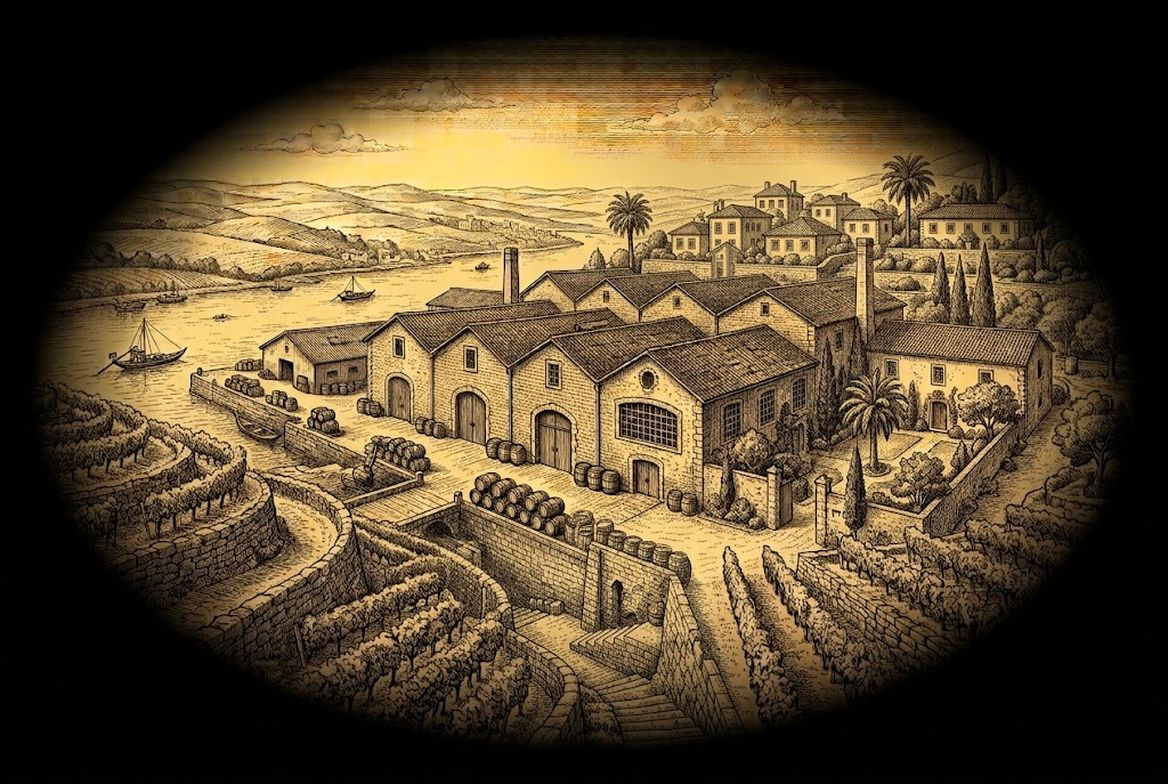
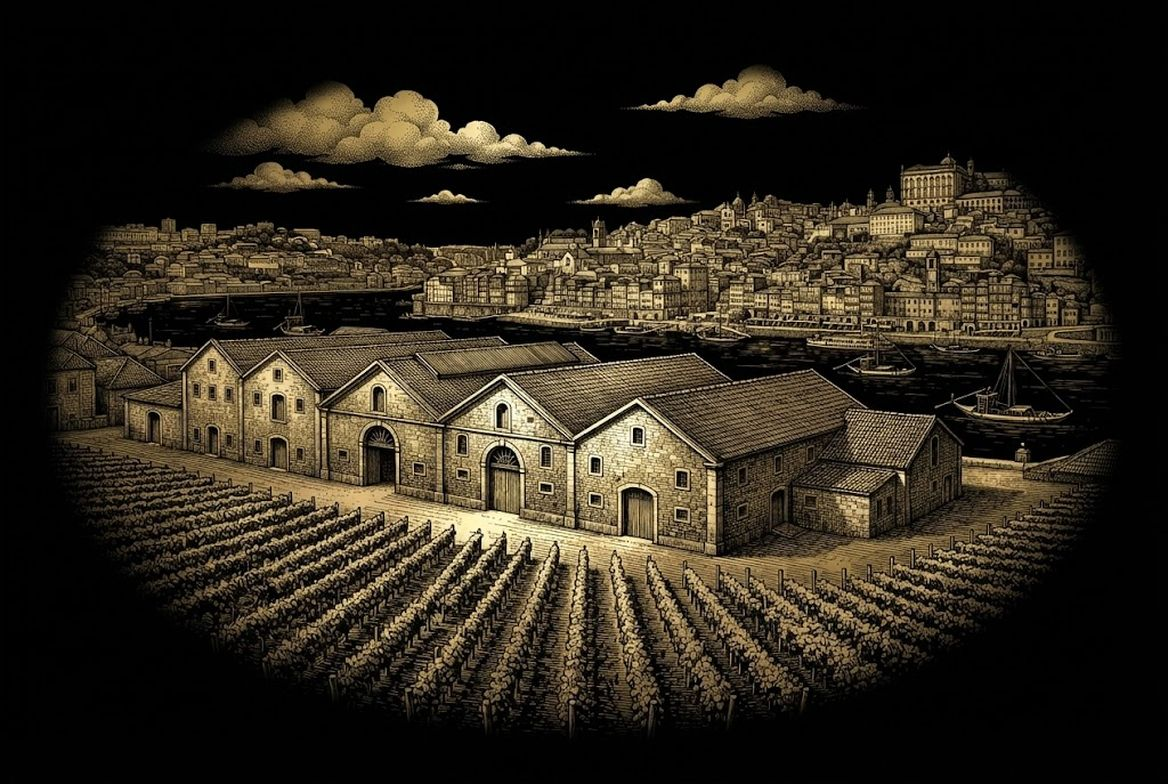
Churchill's, Fitapreta y Perelada tienen grabado propio (v96) (#43)
* Sustituye los grabados de Churchill's y Fitapreta (v96).

* Sustituye el grabado de Perelada por el del castillo (v96).

---------

diff --git a/index.html b/index.html
@@ -9,14 +9,14 @@
   <meta name="apple-mobile-web-app-title" content="Casa Llavaneras" />
   <meta name="application-name" content="Casa Llavaneras" />
   <meta name="theme-color" content="#000000" />
-  <meta name="app-version" content="v95" />
+  <meta name="app-version" content="v96" />
   <title>Casa Llavaneras</title>
   <link rel="manifest" href="manifest.json" />
   <link rel="apple-touch-icon" href="apple-touch-icon.png" />
   <link rel="apple-touch-icon" sizes="180x180" href="apple-touch-icon.png" />
   <link rel="icon" type="image/png" sizes="192x192" href="icon-192.png" />
   <link rel="icon" type="image/png" sizes="512x512" href="icon-512.png" />
-  <link rel="stylesheet" href="styles.css?v=95" />
+  <link rel="stylesheet" href="styles.css?v=96" />
 </head>
 <body>
   <div class="device">
@@ -526,32 +526,32 @@
       if (!window.__casaReady) casaShowBootError();
     }, 8000);
   </script>
-  <script src="wines.js?v=95"></script>
-  <script src="bodegas.js?v=95"></script>
-  <script src="dossiers.js?v=95"></script>
-  <script src="providers/wineProvider.js?v=95"></script>
-  <script src="pairings.js?v=95"></script>
-  <script src="catalog-i18n.js?v=95"></script>
-  <script src="i18n.js?v=95"></script>
-  <script src="casa-util.js?v=95"></script>
-  <script src="casa-vino.js?v=95"></script>
-  <script src="casa-estado.js?v=95"></script>
-  <script src="casa-inicio.js?v=95"></script>
-  <script src="casa-vinoteca.js?v=95"></script>
-  <script src="casa-bodega.js?v=95"></script>
-  <script src="casa-ficha.js?v=95"></script>
-  <script src="casa-mesa.js?v=95"></script>
-  <script src="casa-bebidas.js?v=95"></script>
-  <script src="casa-gemini.js?v=95"></script>
-  <script src="casa-ajustes.js?v=95"></script>
-  <script src="casa-v86.js?v=95"></script>
-  <script src="casa-v88.js?v=95"></script>
-  <script src="casa-v89.js?v=95"></script>
-  <script src="casa-v90.js?v=95"></script>
-  <script src="casa-v91.js?v=95"></script>
-  <script src="casa-v92.js?v=95"></script>
-  <script src="casa-alta.js?v=95"></script>
-  <script src="app.js?v=95"></script>
+  <script src="wines.js?v=96"></script>
+  <script src="bodegas.js?v=96"></script>
+  <script src="dossiers.js?v=96"></script>
+  <script src="providers/wineProvider.js?v=96"></script>
+  <script src="pairings.js?v=96"></script>
+  <script src="catalog-i18n.js?v=96"></script>
+  <script src="i18n.js?v=96"></script>
+  <script src="casa-util.js?v=96"></script>
+  <script src="casa-vino.js?v=96"></script>
+  <script src="casa-estado.js?v=96"></script>
+  <script src="casa-inicio.js?v=96"></script>
+  <script src="casa-vinoteca.js?v=96"></script>
+  <script src="casa-bodega.js?v=96"></script>
+  <script src="casa-ficha.js?v=96"></script>
+  <script src="casa-mesa.js?v=96"></script>
+  <script src="casa-bebidas.js?v=96"></script>
+  <script src="casa-gemini.js?v=96"></script>
+  <script src="casa-ajustes.js?v=96"></script>
+  <script src="casa-v86.js?v=96"></script>
+  <script src="casa-v88.js?v=96"></script>
+  <script src="casa-v89.js?v=96"></script>
+  <script src="casa-v90.js?v=96"></script>
+  <script src="casa-v91.js?v=96"></script>
+  <script src="casa-v92.js?v=96"></script>
+  <script src="casa-alta.js?v=96"></script>
+  <script src="app.js?v=96"></script>
   <script>
     document.querySelectorAll(".tab").forEach((t, i) => {
       const icons = [
@@ -592,7 +592,7 @@
         const current = (document.querySelector('meta[name="app-version"]') || {}).content || "";
         if (data.version && current && data.version !== current) reloadForSw();
       });
-      navigator.serviceWorker.register("sw.js?v=95").catch(() => {});
+      navigator.serviceWorker.register("sw.js?v=96").catch(() => {});
     }
   </script>
 </body>

diff --git a/sw.js b/sw.js
@@ -1,7 +1,7 @@
-const CACHE = "casa-llavaneras-ios-v95";
-const VERSION = "v95";
+const CACHE = "casa-llavaneras-ios-v96";
+const VERSION = "v96";
 const NEXT = CACHE + "-next";
-const ASSETS = ["./", "./index.html", "./styles.css", "./i18n.js", "./casa-util.js", "./casa-vino.js", "./casa-estado.js", "./casa-inicio.js", "./casa-vinoteca.js", "./casa-bodega.js", "./casa-ficha.js", "./casa-mesa.js", "./casa-bebidas.js", "./casa-gemini.js", "./casa-ajustes.js", "./casa-v86.js", "./casa-v88.js", "./casa-v89.js", "./casa-v90.js", "./casa-v91.js", "./casa-v92.js", "./casa-alta.js", "./app.js", "./wines.js", "./bodegas.js", "./dossiers.js", "./providers/wineProvider.js", "./pairings.js", "./catalog-i18n.js", "./manifest.json", "./icon.svg", "./apple-touch-icon.png", "./icon-192.png", "./icon-512.png", "./cave-principal.jpg", "./capsula.jpg", "./botella-tinto.jpg", "./botella-blanco.jpg", "./botella-espumoso.jpg", "./vinedo-chateau-margaux.jpg", "./bodega-domaine-georges-roumier.jpg", "./bodega-domaine-cecile-tremblay.jpg", "./bodega-schloss-johannisberg.jpg", "./bodega-kuhling-gillot.jpg", "./bodega-cartuxa.jpg", "./bodega-fitapreta.jpg", "./bodega-vila-gale.jpg", "./bodega-casa-ferreirinha.jpg", "./bodega-churchills.jpg", "./bodega-niepoort.jpg", "./bodega-pocas.jpg", "./bodega-quinta-do-bomfim.jpg", "./bodega-quinta-do-crasto.jpg", "./bodega-quinta-do-pessegueiro.jpg", "./bodega-quinta-vale-d-maria.jpg", "./bodega-taylors.jpg", "./bodega-wine-and-soul.jpg", "./bodega-casa-santos-lima.jpg", "./bodega-madeira-wine-company.jpg", "./bodega-ermelinda-freitas.jpg", "./bodega-aveleda.jpg"];
+const ASSETS = ["./", "./index.html", "./styles.css", "./i18n.js", "./casa-util.js", "./casa-vino.js", "./casa-estado.js", "./casa-inicio.js", "./casa-vinoteca.js", "./casa-bodega.js", "./casa-ficha.js", "./casa-mesa.js", "./casa-bebidas.js", "./casa-gemini.js", "./casa-ajustes.js", "./casa-v86.js", "./casa-v88.js", "./casa-v89.js", "./casa-v90.js", "./casa-v91.js", "./casa-v92.js", "./casa-alta.js", "./app.js", "./wines.js", "./bodegas.js", "./dossiers.js", "./providers/wineProvider.js", "./pairings.js", "./catalog-i18n.js", "./manifest.json", "./icon.svg", "./apple-touch-icon.png", "./icon-192.png", "./icon-512.png", "./cave-principal.jpg", "./capsula.jpg", "./botella-tinto.jpg", "./botella-blanco.jpg", "./botella-espumoso.jpg", "./vinedo-chateau-margaux.jpg", "./bodega-domaine-georges-roumier.jpg", "./bodega-domaine-cecile-tremblay.jpg", "./bodega-perelada.jpg", "./bodega-schloss-johannisberg.jpg", "./bodega-kuhling-gillot.jpg", "./bodega-cartuxa.jpg", "./bodega-fitapreta.jpg", "./bodega-vila-gale.jpg", "./bodega-casa-ferreirinha.jpg", "./bodega-churchills.jpg", "./bodega-niepoort.jpg", "./bodega-pocas.jpg", "./bodega-quinta-do-bomfim.jpg", "./bodega-quinta-do-crasto.jpg", "./bodega-quinta-do-pessegueiro.jpg", "./bodega-quinta-vale-d-maria.jpg", "./bodega-taylors.jpg", "./bodega-wine-and-soul.jpg", "./bodega-casa-santos-lima.jpg", "./bodega-madeira-wine-company.jpg", "./bodega-ermelinda-freitas.jpg", "./bodega-aveleda.jpg"];
 const OCR = ["./vendor/tesseract/tesseract.min.js", "./vendor/tesseract/worker.min.js", "./vendor/tesseract/tesseract-core-lstm.wasm.js", "./vendor/tesseract/tesseract-core-simd-lstm.wasm.js", "./vendor/tesseract/spa.traineddata.gz", "./vendor/tesseract/eng.traineddata.gz", "./vendor/tesseract/por.traineddata.gz", "./vendor/tesseract/fra.traineddata.gz", "./vendor/tesseract/cat.traineddata.gz"];
 
 function fetchWithTimeout(request, ms) {

diff --git a/tests/v93-alta.test.js b/tests/v93-alta.test.js
@@ -31,14 +31,14 @@ const css = fs.readFileSync(path.join(root, "styles.css"), "utf8");
 const i18n = fs.readFileSync(path.join(root, "i18n.js"), "utf8");
 const v92 = fs.readFileSync(path.join(root, "casa-v92.js"), "utf8");
 
-assert.ok(app.includes('APP_VERSION = "v95"'));
-assert.ok(html.includes('content="v95"'));
-assert.ok(html.includes("casa-alta.js?v=95"));
-assert.ok(html.indexOf("casa-v92.js?v=95") < html.indexOf("casa-alta.js?v=95"));
-assert.ok(html.indexOf("casa-alta.js?v=95") < html.indexOf("app.js?v=95"));
+assert.ok(app.includes('APP_VERSION = "v96"'));
+assert.ok(html.includes('content="v96"'));
+assert.ok(html.includes("casa-alta.js?v=96"));
+assert.ok(html.indexOf("casa-v92.js?v=96") < html.indexOf("casa-alta.js?v=96"));
+assert.ok(html.indexOf("casa-alta.js?v=96") < html.indexOf("app.js?v=96"));
 assert.ok(sw.includes("./casa-alta.js"));
-assert.ok(sw.includes('const CACHE = "casa-llavaneras-ios-v95"'));
-assert.ok(sw.includes('const VERSION = "v95"'));
+assert.ok(sw.includes('const CACHE = "casa-llavaneras-ios-v96"'));
+assert.ok(sw.includes('const VERSION = "v96"'));
 assert.ok(fs.existsSync(path.join(root, "docs/alta-v93.md")));
 assert.ok(fs.existsSync(path.join(root, "archivo/app hoy.js")));
 

diff --git a/tests/v90-scores.test.js b/tests/v90-scores.test.js
@@ -33,12 +33,12 @@ const html = fs.readFileSync(path.join(root, "index.html"), "utf8");
 assert.ok(!v90.includes("|| 30000"));
 assert.ok(extractFunction(v90, "fetchScoreReading").includes("slice(0, 2)"));
 assert.ok(extractFunction(v90, "fetchScoreReading").includes("postScore(key, plain, prompt, null, null)"));
-assert.ok(html.includes("casa-v90.js?v=95"));
-assert.ok(html.indexOf("casa-v90.js?v=95") < html.indexOf("app.js?v=95"));
-assert.ok(html.indexOf("casa-v89.js?v=95") < html.indexOf("casa-v90.js?v=95"));
-assert.ok(app.includes('APP_VERSION = "v95"'));
-assert.ok(sw.includes('const CACHE = "casa-llavaneras-ios-v95"'));
-assert.ok(sw.includes('const VERSION = "v95"'));
+assert.ok(html.includes("casa-v90.js?v=96"));
+assert.ok(html.indexOf("casa-v90.js?v=96") < html.indexOf("app.js?v=96"));
+assert.ok(html.indexOf("casa-v89.js?v=96") < html.indexOf("casa-v90.js?v=96"));
+assert.ok(app.includes('APP_VERSION = "v96"'));
+assert.ok(sw.includes('const CACHE = "casa-llavaneras-ios-v96"'));
+assert.ok(sw.includes('const VERSION = "v96"'));
 assert.ok(sw.includes("./casa-v90.js"));
 assert.ok(!html.includes("?v=90"));
 assert.ok(!html.includes("?v=89"));

diff --git a/tests/v92-escaner.test.js b/tests/v92-escaner.test.js
@@ -26,12 +26,12 @@ const sw = fs.readFileSync(path.join(root, "sw.js"), "utf8");
 const i18n = fs.readFileSync(path.join(root, "i18n.js"), "utf8");
 const app = fs.readFileSync(path.join(root, "app.js"), "utf8");
 
-assert.strictEqual(app.includes('APP_VERSION = "v95"'), true);
-assert.ok(html.includes("casa-v92.js?v=95"));
-assert.ok(html.indexOf("casa-v91.js?v=95") < html.indexOf("casa-v92.js?v=95"));
-assert.ok(html.indexOf("casa-v92.js?v=95") < html.indexOf("app.js?v=95"));
+assert.strictEqual(app.includes('APP_VERSION = "v96"'), true);
+assert.ok(html.includes("casa-v92.js?v=96"));
+assert.ok(html.indexOf("casa-v91.js?v=96") < html.indexOf("casa-v92.js?v=96"));
+assert.ok(html.indexOf("casa-v92.js?v=96") < html.indexOf("app.js?v=96"));
 assert.ok(sw.includes("./casa-v92.js"));
-assert.ok(sw.includes('const CACHE = "casa-llavaneras-ios-v95"'));
+assert.ok(sw.includes('const CACHE = "casa-llavaneras-ios-v96"'));
 assert.ok(i18n.includes('["sheet.backBtn", "Etiqueta posterior"'));
 const backFn = extractFunction(v92, "backLabelSection");
 assert.ok(backFn.includes('if (!src) return ""'));

diff --git a/tests/v94-modelos.test.js b/tests/v94-modelos.test.js
@@ -30,11 +30,11 @@ const sw = fs.readFileSync(path.join(root, "sw.js"), "utf8");
 const app = fs.readFileSync(path.join(root, "app.js"), "utf8");
 const i18n = fs.readFileSync(path.join(root, "i18n.js"), "utf8");
 
-assert.ok(app.includes('APP_VERSION = "v95"'));
-assert.ok(html.includes('content="v95"'));
-assert.ok(html.includes("casa-alta.js?v=95"));
-assert.ok(sw.includes('const CACHE = "casa-llavaneras-ios-v95"'));
-assert.ok(sw.includes('const VERSION = "v95"'));
+assert.ok(app.includes('APP_VERSION = "v96"'));
+assert.ok(html.includes('content="v96"'));
+assert.ok(html.includes("casa-alta.js?v=96"));
+assert.ok(sw.includes('const CACHE = "casa-llavaneras-ios-v96"'));
+assert.ok(sw.includes('const VERSION = "v96"'));
 assert.ok(gemini.indexOf('id: "gemini-3.5-flash-lite", read: true') >= 0);
 assert.ok(gemini.indexOf('id: "gemini-3.5-flash-lite"') < gemini.indexOf('id: "gemini-2.5-flash", read: true'));
 assert.ok(gemini.includes("ground: false"));

diff --git a/tests/v89-alta.test.js b/tests/v89-alta.test.js
@@ -257,13 +257,13 @@ assert.ok(i18n.includes("Gemini did not respond: network failure."));
 assert.ok(i18n.includes("La réponse de Gemini a été coupée."));
 assert.ok(i18n.includes("O Gemini não respondeu: falha de rede."));
 
-assert.ok(app.includes('APP_VERSION = "v95"'));
-assert.ok(sw.includes("casa-llavaneras-ios-v95"));
+assert.ok(app.includes('APP_VERSION = "v96"'));
+assert.ok(sw.includes("casa-llavaneras-ios-v96"));
 assert.ok(sw.includes("./casa-v89.js"));
 assert.ok(sw.includes("zxing"));
 assert.ok(!sw.includes("./vendor/zxing/zxing.min.js"));
-assert.ok(html.includes('content="v95"'));
-assert.ok(html.includes("casa-v89.js?v=95"));
+assert.ok(html.includes('content="v96"'));
+assert.ok(html.includes("casa-v89.js?v=96"));
 assert.ok(!html.includes("?v=88"));
 assert.ok(fs.existsSync(path.join(root, "vendor/zxing/zxing.min.js")));
 assert.ok(fs.existsSync(path.join(root, "tests/fixtures/juve-contraetiqueta.png")));

diff --git a/tests/v91-bodegas.test.js b/tests/v91-bodegas.test.js
@@ -92,9 +92,9 @@ assert.ok(v91.includes("wineries.sources"));
 assert.ok(v91.includes('precision === "municipio"'));
 
 assert.ok(html.includes('id="bodegas"'));
-assert.ok(html.includes("casa-v91.js?v=95"));
-assert.ok(app.includes('APP_VERSION = "v95"'));
-assert.ok(sw.includes("casa-llavaneras-ios-v95"));
+assert.ok(html.includes("casa-v91.js?v=96"));
+assert.ok(app.includes('APP_VERSION = "v96"'));
+assert.ok(sw.includes("casa-llavaneras-ios-v96"));
 assert.ok(sw.includes("./bodega-domaine-georges-roumier.jpg"));
 assert.ok(sw.includes("./casa-v91.js"));
 ["wineries.h1", "wineries.open", "wineries.artPending", "wineries.noZone", "wineries.sources"].forEach(key => {

diff --git a/tests/v88-alta.test.js b/tests/v88-alta.test.js
@@ -177,11 +177,11 @@ assert.ok(i18n.includes("map.pinTown"));
 ["ca", "en", "fr", "pt"].forEach(code => {
   assert.ok(i18n.includes("alta.saveAnother"));
 });
-assert.ok(app.includes('APP_VERSION = "v95"'));
-assert.ok(sw.includes("casa-llavaneras-ios-v95"));
+assert.ok(app.includes('APP_VERSION = "v96"'));
+assert.ok(sw.includes("casa-llavaneras-ios-v96"));
 assert.ok(sw.includes("./casa-v88.js"));
-assert.ok(html.includes('content="v95"'));
-assert.ok(html.includes("casa-v88.js?v=95"));
+assert.ok(html.includes('content="v96"'));
+assert.ok(html.includes("casa-v88.js?v=96"));
 assert.ok(html.includes('id="alta"'));
 assert.ok(!html.includes("?v=87"));
 

diff --git a/tests/v87-scores.test.js b/tests/v87-scores.test.js
@@ -110,9 +110,9 @@ assert.ok(gemini.includes("origin: \"web\""));
 assert.ok(gemini.includes("quotaTries < 2"));
 assert.ok(i18n.includes("score.catalog"));
 assert.ok(i18n.includes("score.noneLine"));
-assert.ok(app.includes('APP_VERSION = "v95"'));
-assert.ok(sw.includes("casa-llavaneras-ios-v95"));
-assert.ok(html.includes('content="v95"'));
+assert.ok(app.includes('APP_VERSION = "v96"'));
+assert.ok(sw.includes("casa-llavaneras-ios-v96"));
+assert.ok(html.includes('content="v96"'));
 assert.ok(!html.includes("?v=89"));
 
 console.log("v87-scores ok");

diff --git a/tests/v90-shot.js b/tests/v90-shot.js
@@ -76,7 +76,7 @@ const out = "/opt/cursor/artifacts/v90-calificaciones-hd.png";
       tabTop: document.querySelector(".tabbar") ? document.querySelector(".tabbar").getBoundingClientRect().top : 0
     };
   });
-  assert.strictEqual(info.version, "v95");
+  assert.strictEqual(info.version, "v96");
   assert.strictEqual(info.sheet.h1, "Bodegas Faustino");
   assert.strictEqual(info.sheet.cuvee, "Crianza 2020");
   assert.strictEqual(info.form, false);

diff --git a/tests/v92-shot.js b/tests/v92-shot.js
@@ -37,7 +37,7 @@ const playwright = require("/tmp/pw/node_modules/playwright");
       src: img ? img.getAttribute("src") : ""
     };
   });
-  assert.strictEqual(sheet.version, "v95");
+  assert.strictEqual(sheet.version, "v96");
   assert.strictEqual(sheet.src, "bodega-domaine-georges-roumier.jpg");
   assert.ok(sheet.text.indexOf("Ilustración pendiente") < 0, sheet.text);
   assert.ok(sheet.text.indexOf("Chambolle-Musigny") >= 0);
